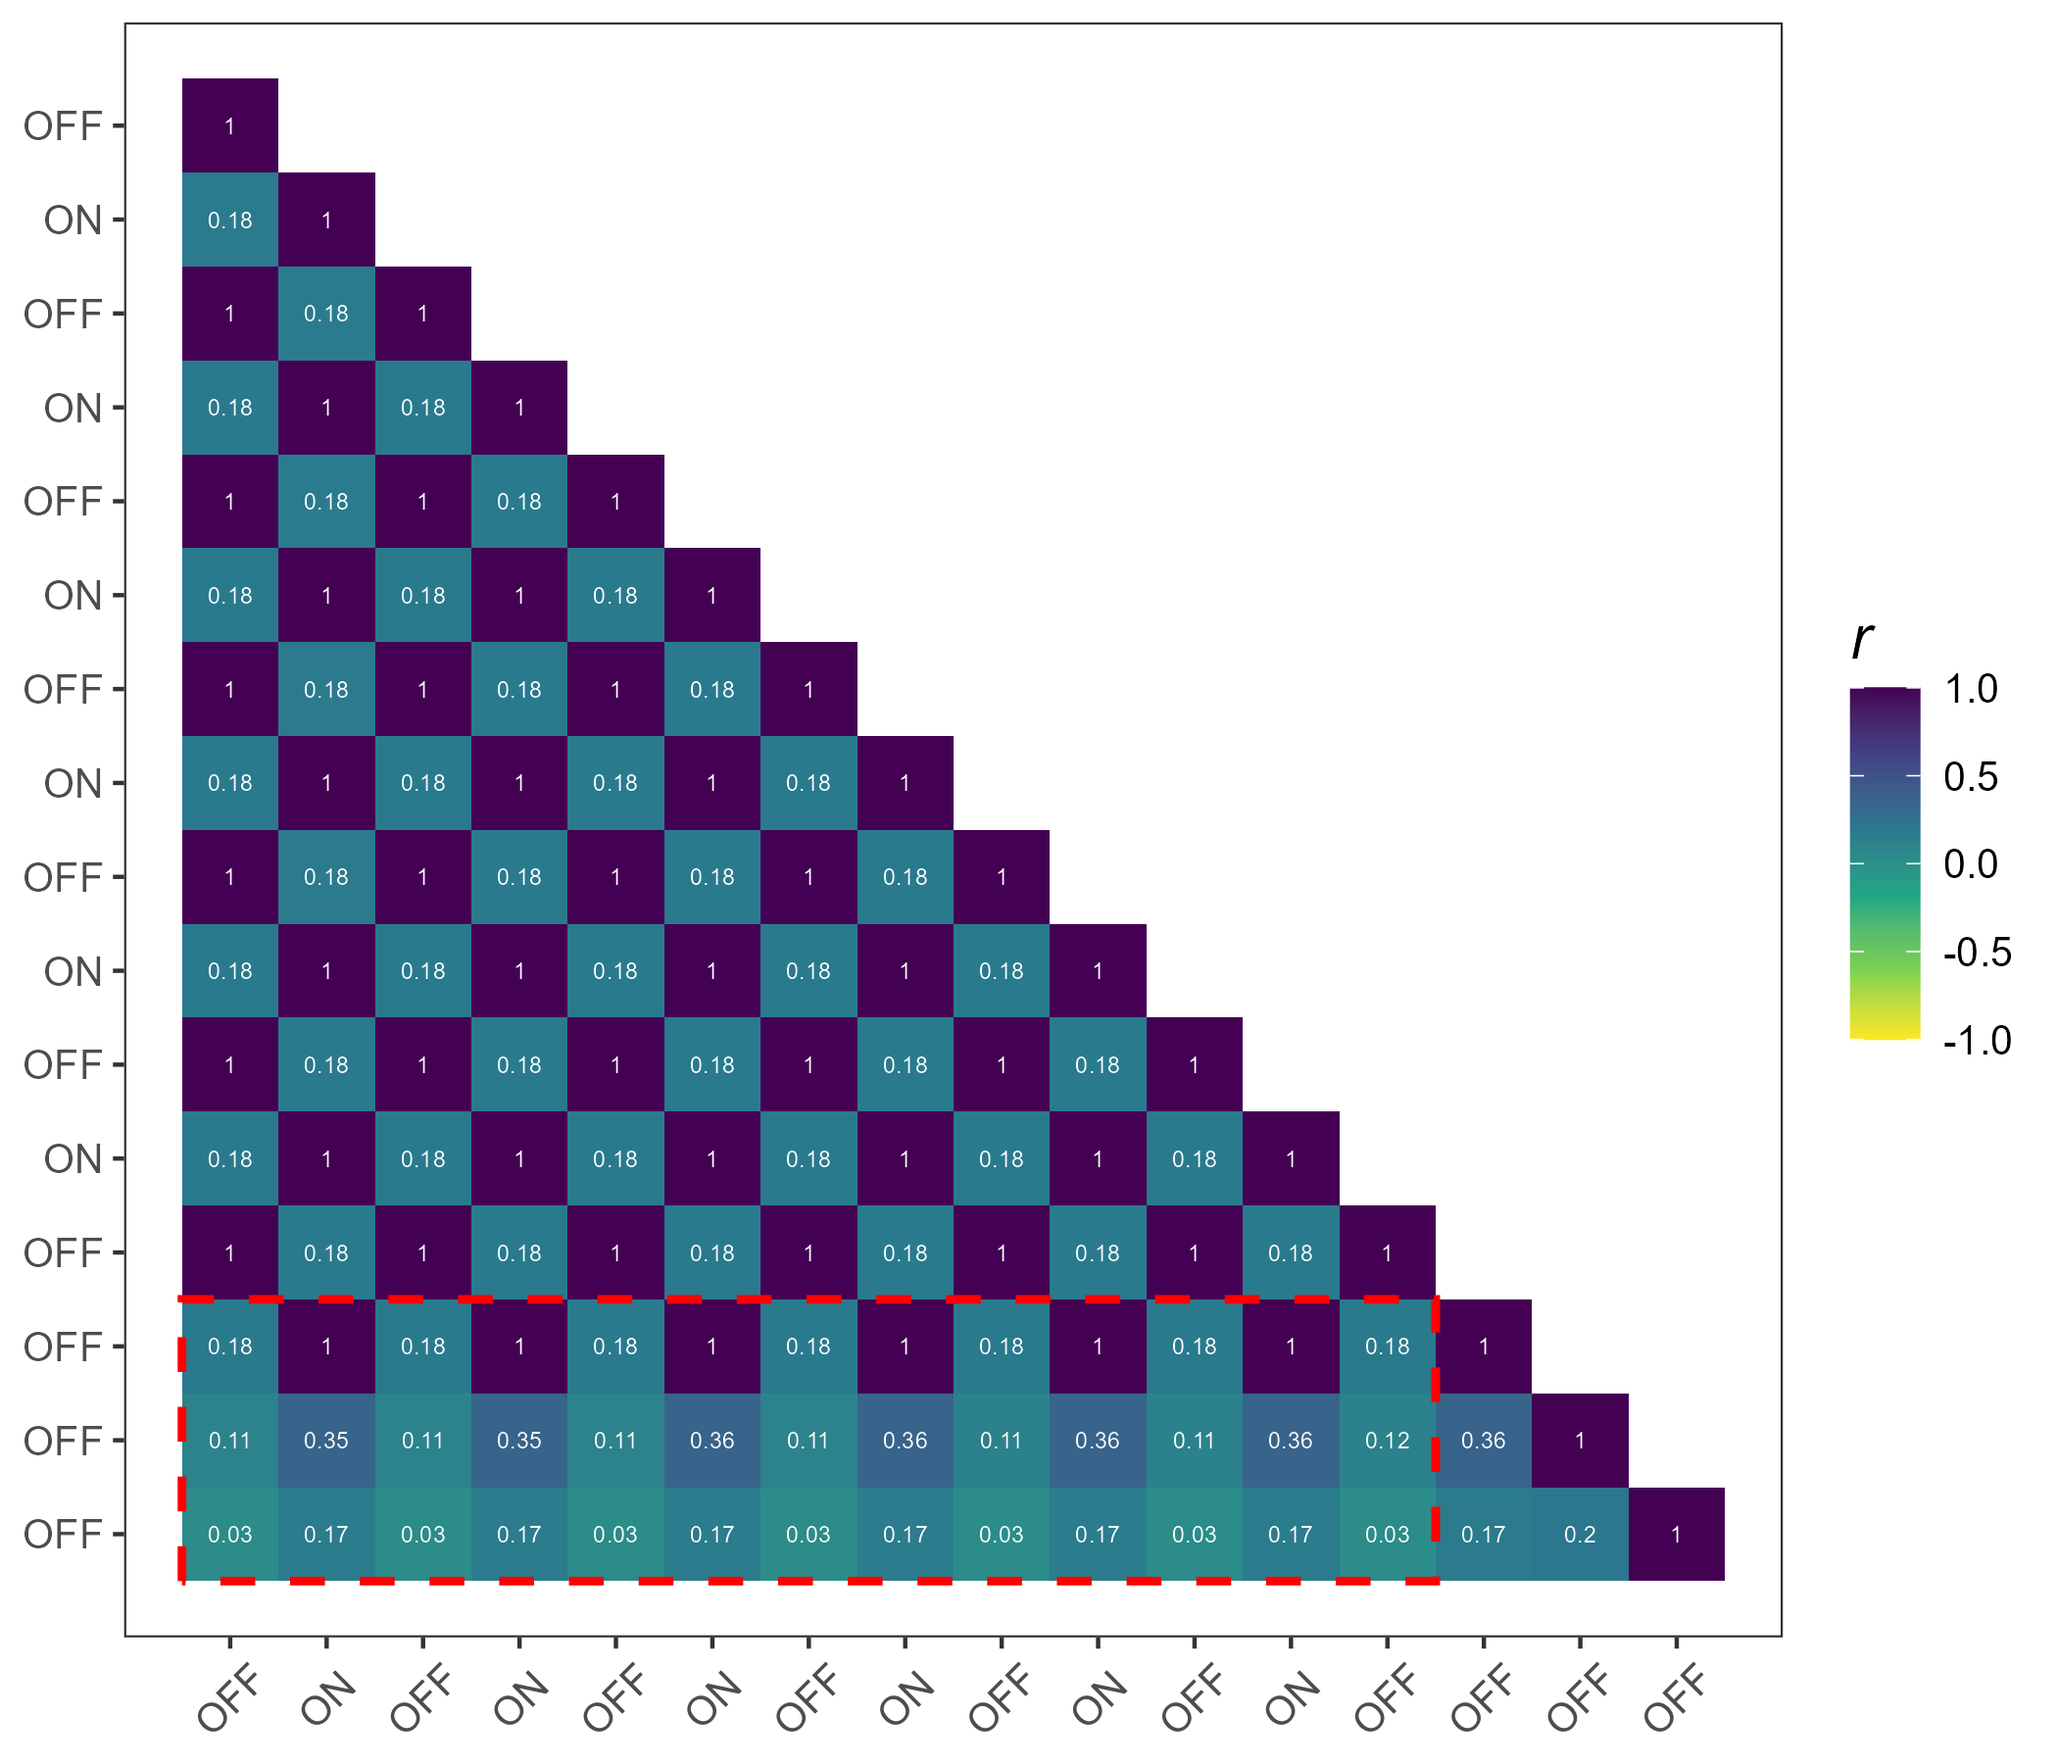
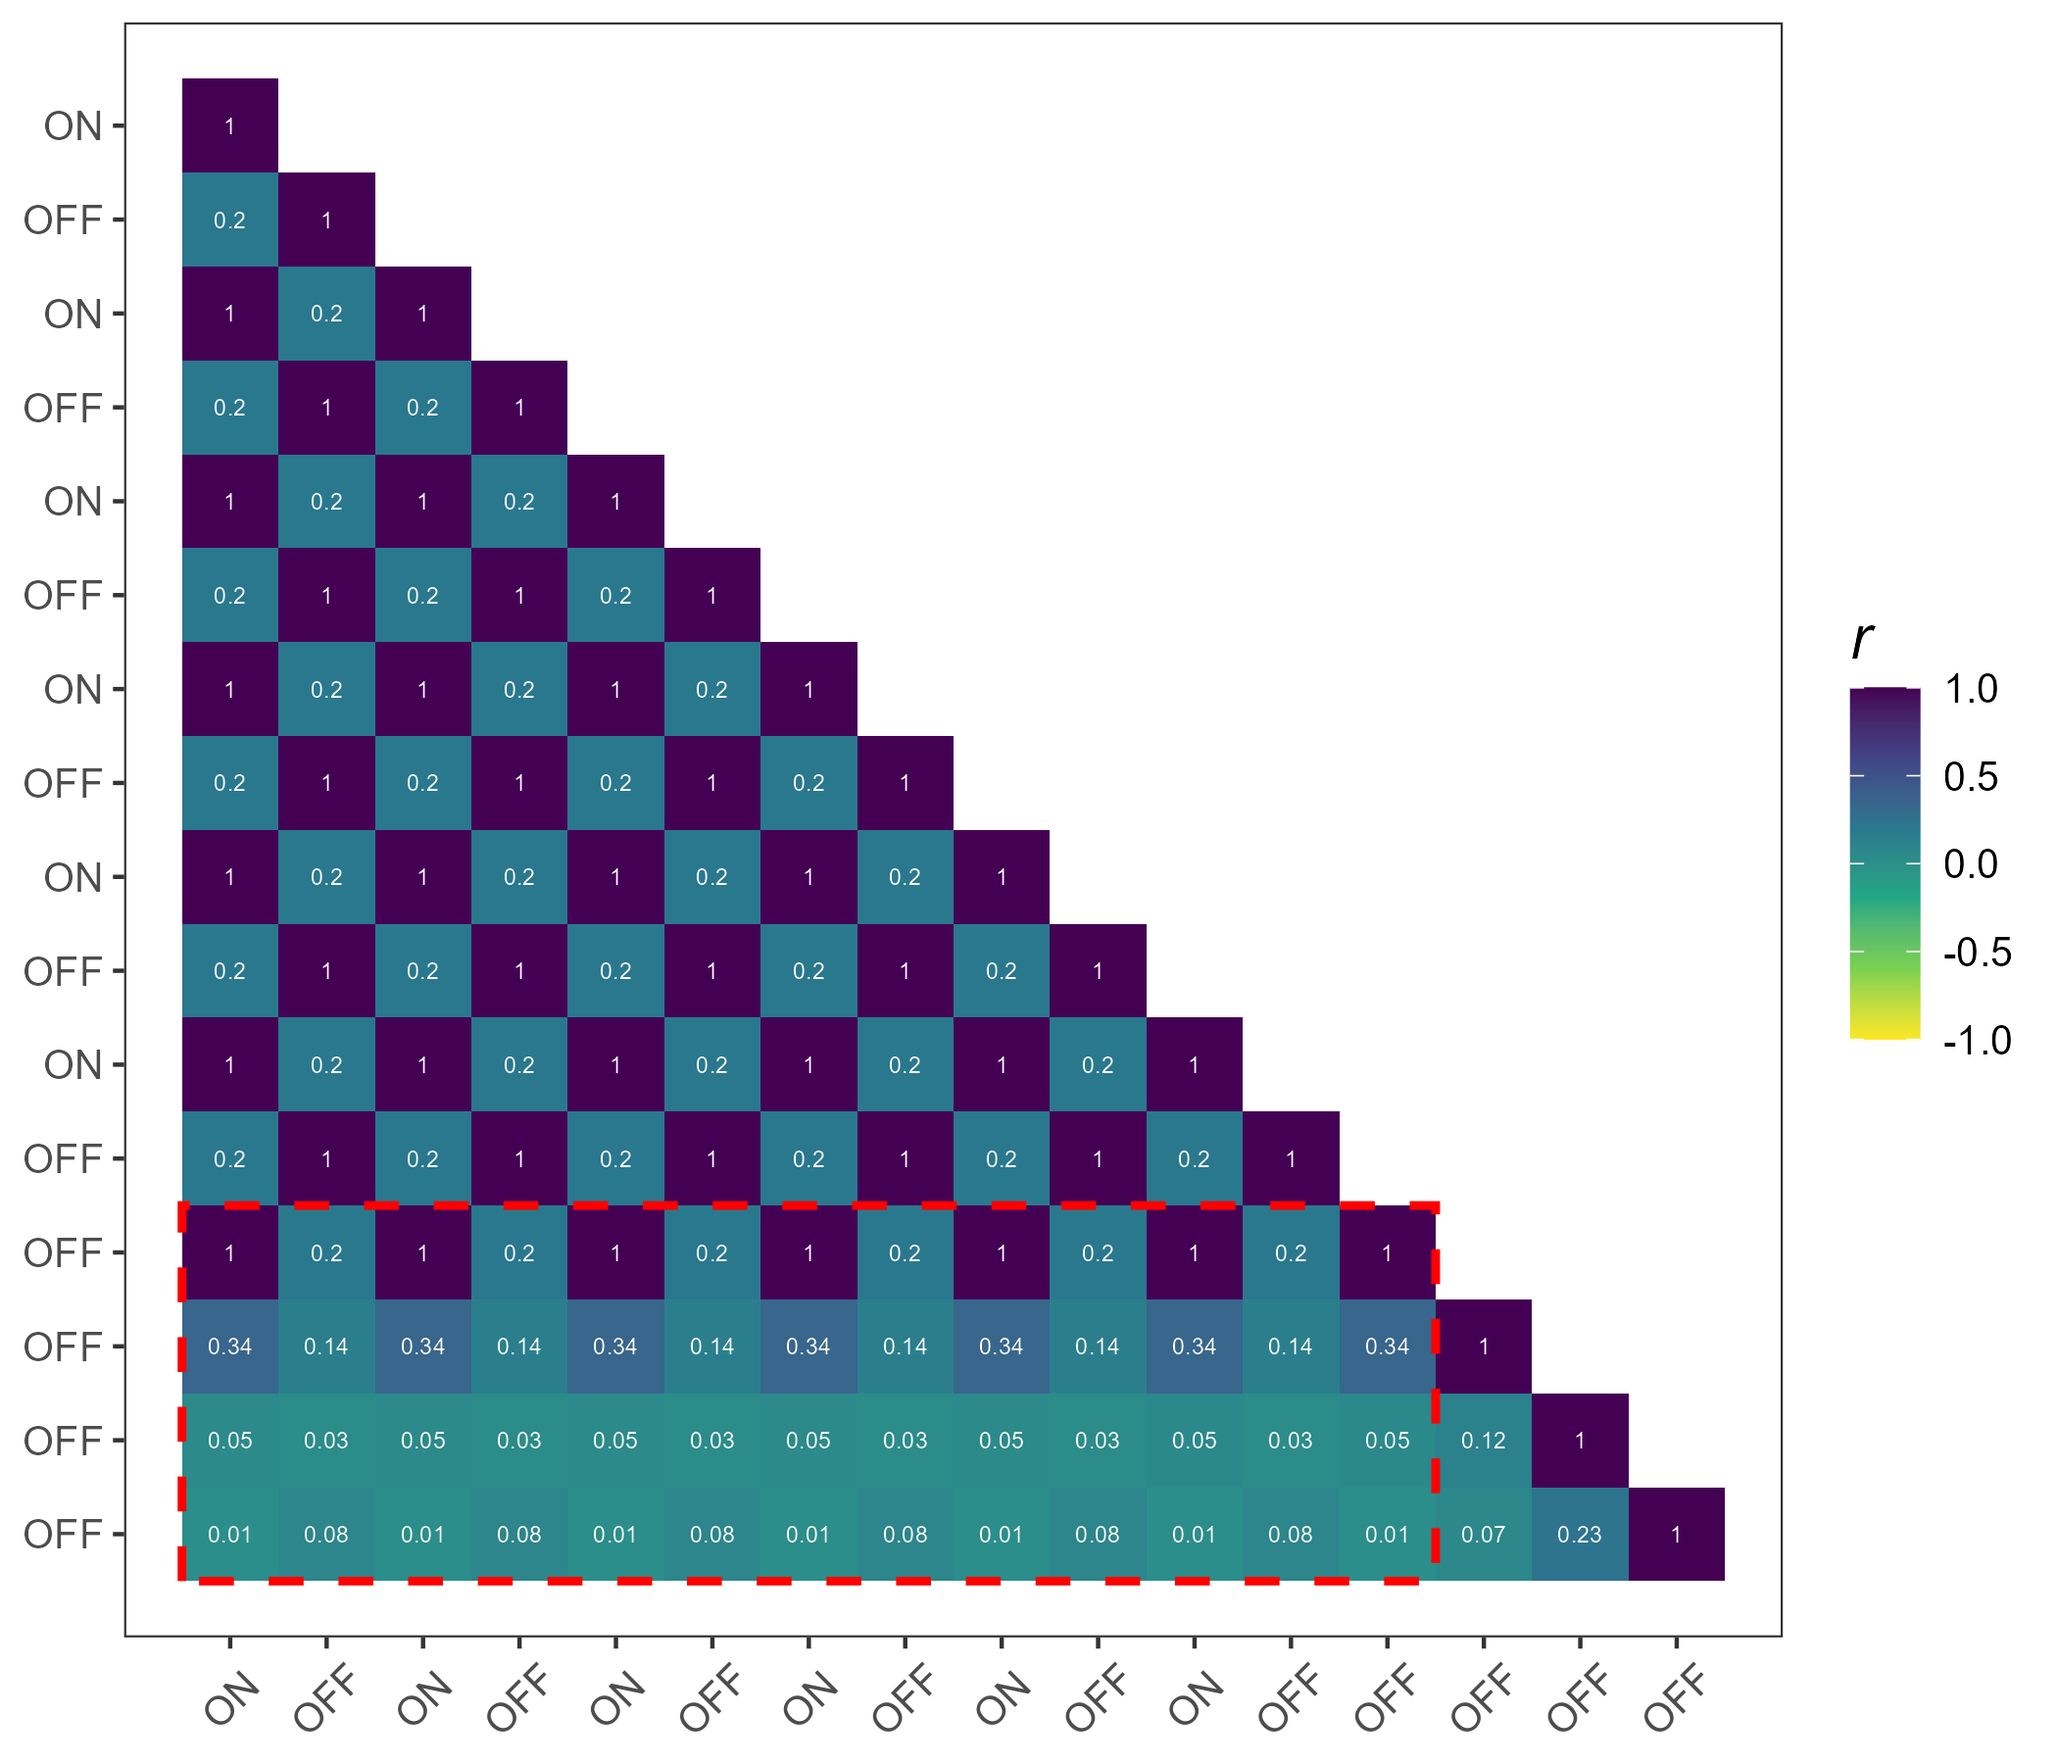
preprint files

diff --git a/oscillation_linnea.py b/oscillation_linnea.py
@@ -1,5 +1,6 @@
 import numpy as np
 import pandas as pd
+import matplotlib.pyplot as plt
 import random
 from sklearn.decomposition import PCA
 from reservoir_linnea import SlimeMoldReservoir  # or your actual module name
@@ -10,17 +11,17 @@ timesteps = 50
 savefig = False
 
 # Create oscillatory regime
-train_data = [[0], [1]] * (timesteps // 2)
-train_labels = ['OFF', 'ON'] * (timesteps // 2)
+train_data = [[1], [0]] * (timesteps // 2)
+train_labels = ['ON', 'OFF'] * (timesteps // 2)
 
 # Create and train the model
 model = SlimeMoldReservoir(
     input_nnodes=len(train_data[0]),
     nnodes=36,
     input_connectivity=1.0,
-    leak=0.01,
+    leak=0.1,
     p_link=0.2,
-    lrate_targ=0.01,
+    lrate_targ=0.1,
     lrate_wmat=0.1,
     targ_min=1.0,
     network_type='hexagonal',  # you can also try 'grid', 'hexagonal', or 'random'
@@ -69,3 +70,42 @@ print(cue_states.sum(axis=0))  # Fading memory
 
 
 # model.animate_weight_and_activation(save_path="weight_evolution.mp4")
+
+
+
+# Fading memory PCA
+
+# cue_states = np.array(cue_results[0]).T
+# 
+# cue_principal_components = pca.transform(cue_states)
+# 
+# tail_pc1 = principal_components[-12:, 0]
+# tail_pc2 = principal_components[-12:, 1]
+# 
+# cue_pc1 = cue_principal_components[:, 0]
+# cue_pc2 = cue_principal_components[:, 1]
+# 
+# pc1 = np.concatenate((tail_pc1, cue_pc1))
+# pc2 = np.concatenate((tail_pc2, cue_pc2))
+# 
+# cue_timesteps_arr = np.arange(len(pc1))
+# colors = cue_timesteps_arr
+# 
+# plt.figure(figsize=(8, 6))
+# plt.plot(pc1, pc2, color='gray', alpha=1, linestyle='dotted', linewidth=0.8)
+# scatter = plt.scatter(pc1[:-4], pc2[:-4], c=colors[:-4], cmap='viridis', alpha=0.8)
+# plt.scatter(pc1[-4:], pc2[-4:], color='red', alpha=0.8, label='Cue points')
+# plt.axhline(0, color='gray', linestyle='--', linewidth=0.8)
+# plt.axvline(0, color='gray', linestyle='--', linewidth=0.8)
+# plt.title('PCA Space')
+# plt.xlabel('PC1')
+# plt.ylabel('PC2')
+# plt.colorbar(scatter, label='Time')
+# plt.grid()
+# plt.show()
+
+# if save==True:
+#   timestamp = datetime.now().strftime("%Y-%m-%d_%H-%M-%S")
+#   plt.savefig(f'figures/pca_{timestamp}.png')
+# else:
+#   plt.show()

diff --git a/oscillation_linnea_100runs.py b/oscillation_linnea_100runs.py
@@ -7,11 +7,11 @@ from functions import plot_pca_explainedvar, plot_pca_space, plot_correlations, 
 
 # Hyperparams
 simulations = 100
-timesteps = 50
+timesteps = 250
 
 # Create oscillatory regime
-train_data = [[0], [1]] * (timesteps // 2)
-train_labels = ['OFF', 'ON'] * (timesteps // 2)
+train_data = [[1], [0]] * (timesteps // 2)
+train_labels = ['ON', 'OFF'] * (timesteps // 2)
  
 for run in range(simulations):
 
@@ -23,7 +23,7 @@ for run in range(simulations):
         leak=0.01,
         p_link=0.2,
         lrate_targ=0.01,
-        lrate_wmat=0.1,
+        lrate_wmat=0.01,
         targ_min=1.0,
         network_type='hexagonal',  # you can also try 'grid', 'hexagonal', or 'random'
         seed=None,
@@ -36,16 +36,22 @@ for run in range(simulations):
 
 
     # Cue trained model
-    cue = [[0], [0]] * 2
-    cue_labels = ['NA', 'NA'] * 2
+    cue = [[0], [0]] * 5
+    cue_labels = ['NA', 'NA'] * 5
 
     cue_results = model.echo(cue)
 
 
     # Save data
 
-    df_train = pd.DataFrame(results[0].T)
-    df_cue = pd.DataFrame(cue_results[0].T)
+    actdf_train = pd.DataFrame(results[0].T)
+    actdf_cue = pd.DataFrame(cue_results[0].T)
+
+    wdf_train = pd.DataFrame(results[1].T)
+    wdf_cue = pd.DataFrame(cue_results[1].T)
     
-    df_train.to_csv(f'data/train_sim_{run}.csv', index=False)
-    df_cue.to_csv(f'data/cue_sim_{run}.csv', index=False)
+    actdf_train.to_csv(f'data_mem250/act_train_sim_{run}.csv', index=False)
+    actdf_cue.to_csv(f'data_mem250/act_cue_sim_{run}.csv', index=False)
+
+    wdf_train.to_csv(f'data_mem250/w_train_sim_{run}.csv', index=False)
+    wdf_cue.to_csv(f'data_mem250/w_cue_sim_{run}.csv', index=False)

diff --git a/reservoir_linnea.py b/reservoir_linnea.py
@@ -376,6 +376,7 @@ class SlimeMoldReservoir:
 
   def _initialize_weights(self):
     self.wmat = np.where(self.link_mat == 1, np.random.normal(0, 1, size=(self.nnodes, self.nnodes)), 0)
+    # self.wmat = np.where(self.link_mat == 1, np.random.normal(1, 0, size=(self.nnodes, self.nnodes)), 0) # initialize all weights at 1
     self._save_weights()
 
   def _save_weights(self):
